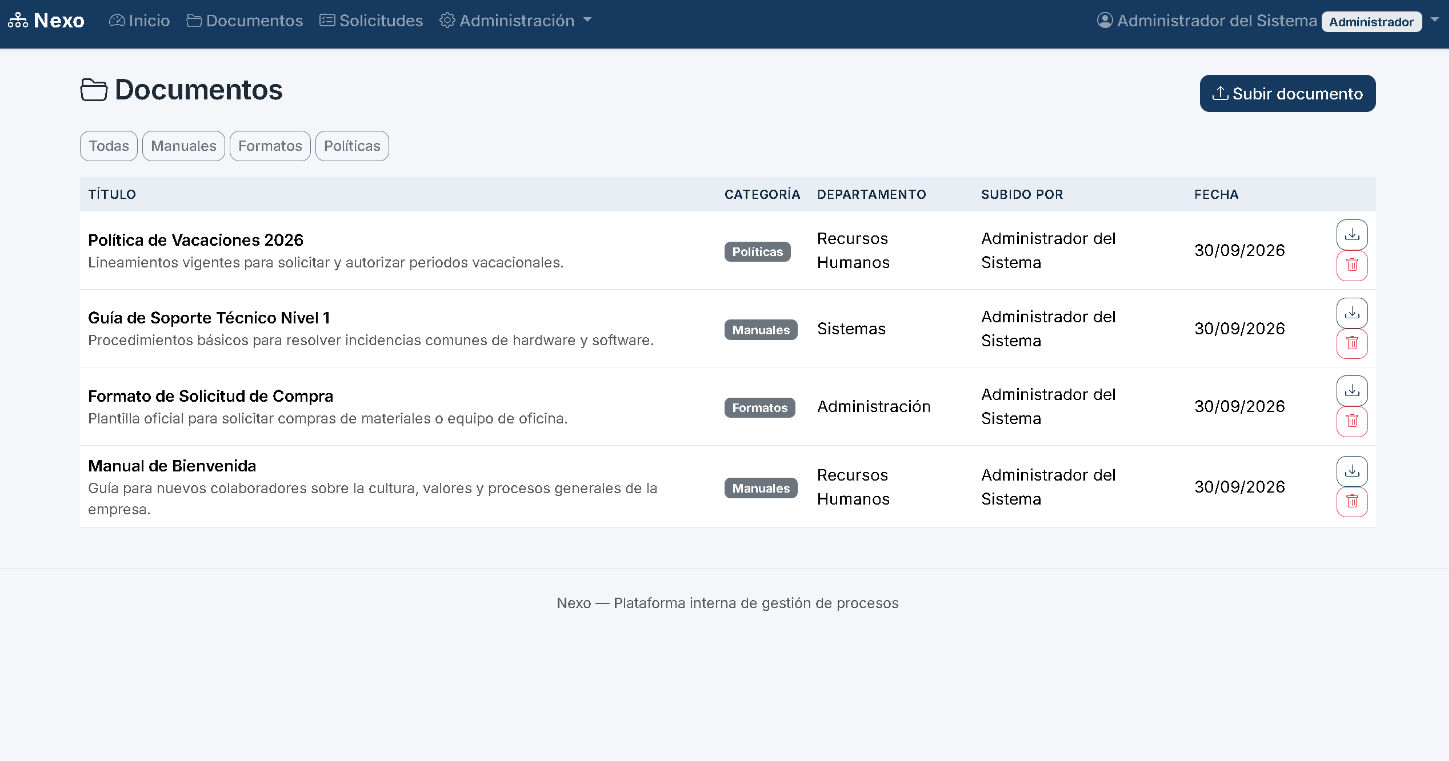
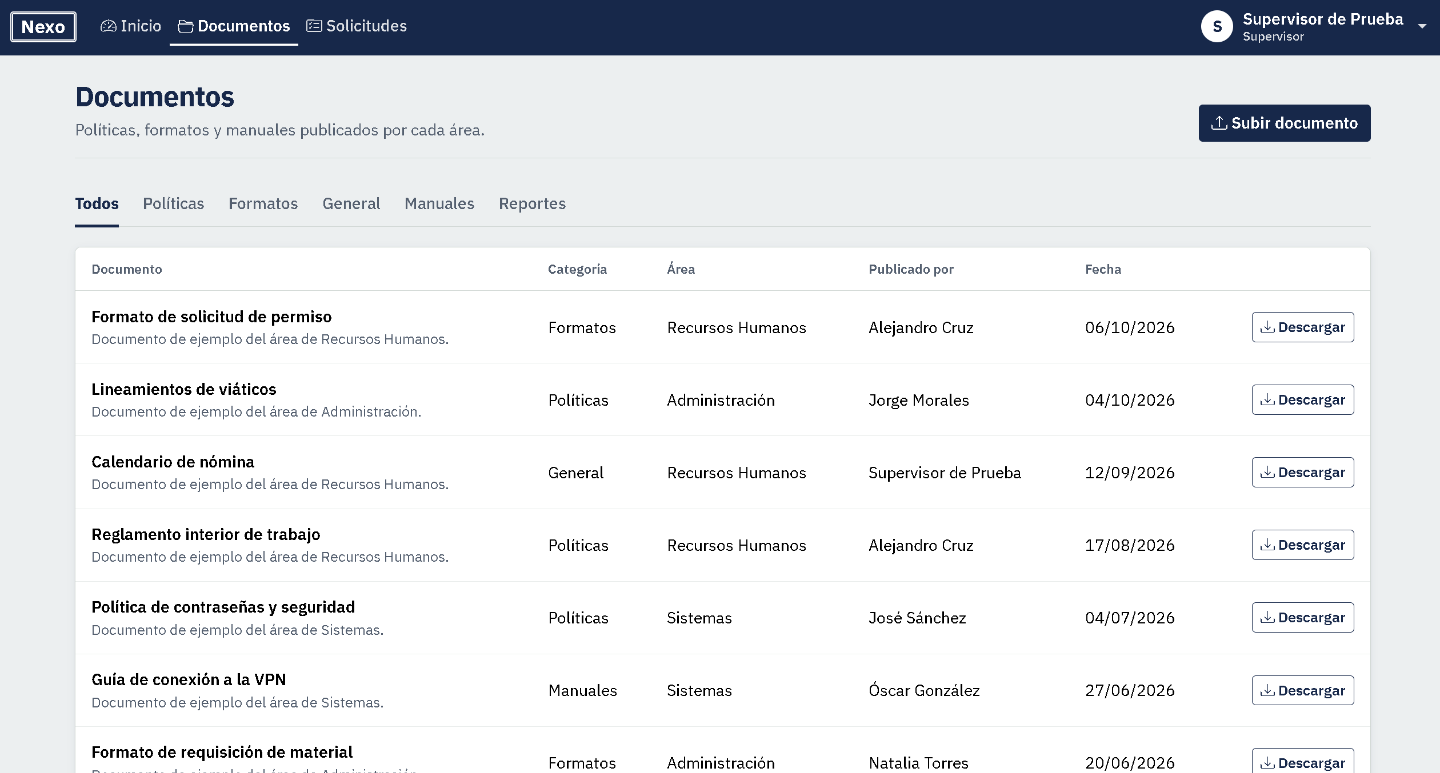
docs: Actualiza README e imágenes con el nuevo diseño y funcionalidades

diff --git a/README.md b/README.md
@@ -54,10 +54,12 @@ Plataforma web para digitalizar procesos internos de una empresa: gestión docum
   <img src="docs/images/login.png" width="600" alt="Pantalla de inicio de sesión">
 </p>
 
-### Inicio (dashboard)
+### Inicio (panel de operación)
+
+Supervisores y administradores ven un panel de operación con accesos rápidos, indicadores (abiertas, sin asignar, resueltas en 30 días, tiempo medio de resolución), gráficas de volumen semanal, por estado y por área, y las solicitudes que requieren atención. Los empleados ven un inicio centrado en sus trámites y en los documentos recientes de su área.
 
 <p align="center">
-  <img src="docs/images/inicio.png" width="600" alt="Panel de inicio">
+  <img src="docs/images/inicio.png" width="600" alt="Panel de operación">
 </p>
 
 ### Documentos
@@ -91,9 +93,11 @@ Plataforma web para digitalizar procesos internos de una empresa: gestión docum
 - **Solicitudes internas**: los colaboradores generan solicitudes con folio único; los responsables las asignan, actualizan su estado (Pendiente → En proceso → Aprobada/Rechazada/Cancelada) y dejan registro en una bitácora de seguimiento.
 - **Panel de administración**: alta, edición y baja de usuarios, gestión de departamentos y consulta de roles/permisos. Eliminar un usuario borra sus documentos (incluido el archivo físico), sus comentarios y las solicitudes que creó con su bitácora; las solicitudes que tenía asignadas no se borran, quedan sin responsable.
 - **Protección de administradores**: el sistema impide eliminar, degradar o desactivar al último administrador activo, y permite marcar usuarios como protegidos (`PROTECTED_USERNAMES`): solo ellos pueden editar su propia información y ningún otro administrador puede modificarlos ni eliminarlos.
-- **Validación exhaustiva**: todos los formularios validan longitud, formato y campos obligatorios, mostrando errores específicos por campo.
+- **Panel de operación**: accesos rápidos, indicadores y gráficas generadas en el servidor (sin librerías de gráficas), con vista de tabla accesible. Bandejas *Sin asignar* y *Asignadas a mí* en la lista de solicitudes.
+- **Contraseñas temporales**: cuando un administrador crea un usuario o le restablece la contraseña, la persona debe cambiarla en su siguiente acceso antes de usar la intranet.
+- **Validación exhaustiva**: todos los formularios validan longitud, formato y campos obligatorios; al fallar, una notificación lo indica y los campos con error se marcan en rojo (el detalle queda disponible para lectores de pantalla).
 - **Identificadores no secuenciales**: las URLs usan identificadores públicos (UUID) en lugar de IDs autoincrementales, evitando exponer el volumen de registros del sistema.
-- **Interfaz responsiva** con una identidad visual corporativa propia (Bootstrap 5 + tipografía Inter).
+- **Interfaz responsiva y accesible** con identidad visual corporativa propia (Bootstrap 5 + IBM Plex Sans): el estado de cada solicitud se muestra como un sello, contraste WCAG 2.1 AA y, en móvil, menú lateral que se abre desde la derecha.
 
 ## Stack tecnológico
 
@@ -366,7 +370,9 @@ Detalles de la configuración:
 
 - Contraseñas almacenadas como hash con Werkzeug (`scrypt` por defecto), nunca en texto plano.
 - Límite de intentos de inicio de sesión: tras 10 fallos desde la misma IP en 15 minutos, el login se bloquea para esa IP durante ese periodo (contador en memoria, válido con un solo worker).
-- Protección CSRF en los formularios de la aplicación (Flask-WTF), complementada con cookies `SameSite=Lax`.
+- Protección CSRF global (`CSRFProtect`): todo envío POST, incluidas las acciones de eliminar y reiniciar la demo, exige token; complementada con cookies `SameSite=Lax`.
+- Redirección tras el login limitada a rutas internas (sin redirecciones abiertas).
+- Contraseñas temporales: las definidas por un administrador deben cambiarse en el siguiente acceso; las cuentas demo públicas no pueden cambiar su contraseña, para que nadie bloquee la demo.
 - Control de acceso mediante decoradores de permisos (`@permission_required`) y comprobaciones de propiedad o departamento en las vistas que muestran datos individuales (solicitudes y descargas de documentos).
 - Cookies de sesión `HttpOnly`, `SameSite=Lax`, y `Secure` en producción.
 - Identificadores públicos (UUID) en URLs en lugar de IDs autoincrementales.
@@ -382,15 +388,14 @@ Detalles de la configuración:
 - **Archivos subidos en disco local** (`instance/uploads`): en plataformas con sistema de archivos efímero, como el plan gratuito de Render, los documentos se pierden al reiniciar o volver a desplegar. Para producción real se recomienda almacenamiento externo (S3, Cloudinary, Azure Blob Storage o un disco persistente).
 - **Base de datos serverless**: el nivel gratuito de Azure SQL se pausa tras un periodo de inactividad, por lo que el primer acceso posterior puede tardar hasta un minuto en responder.
 - **Firewall de la base de datos**: Render no ofrece IPs de salida fijas en el plan gratuito, por lo que en la demo el servidor SQL admite conexiones desde cualquier IP, protegidas únicamente por credenciales de un usuario con privilegios limitados. En un despliegue real debe restringirse (IPs fijas, red privada o alojar la aplicación dentro de Azure).
-- **Sin migraciones de esquema**: los cambios en los modelos requieren recrear o ajustar la base manualmente hasta incorporar Flask-Migrate.
-- **Acciones de eliminar sin token CSRF**: los botones de eliminar son envíos POST simples; hoy se apoyan en las cookies `SameSite=Lax` y en la confirmación previa. Ver roadmap.
+- **Migraciones de esquema manuales**: sin Flask-Migrate, las columnas nuevas se añaden al arrancar desde `seed.py` (con la sintaxis de SQL Server o SQLite); cambios mayores en los modelos requieren ajustar la base a mano.
+- **Límite de intentos en memoria**: el contador de intentos de login vive en el proceso; con varios workers o instancias habría que moverlo a un almacén compartido.
 - **Folios**: se generan como el siguiente al mayor existente y, ante una colisión por creaciones simultáneas, se reintenta. Una secuencia de base de datos sería más robusta.
 - **Sin pruebas automatizadas** por ahora (ver roadmap).
 
 ## Roadmap
 
 - [ ] Restringir el firewall de la base de datos (IPs fijas o red privada)
-- [ ] Protección CSRF global (`CSRFProtect`) con token también en las acciones de eliminar
 - [ ] Almacenamiento externo de documentos (S3 / Cloudinary / Azure Blob Storage)
 - [ ] Notificaciones por correo al cambiar el estado de una solicitud
 - [ ] Exportación de reportes (PDF/Excel) de solicitudes por periodo
